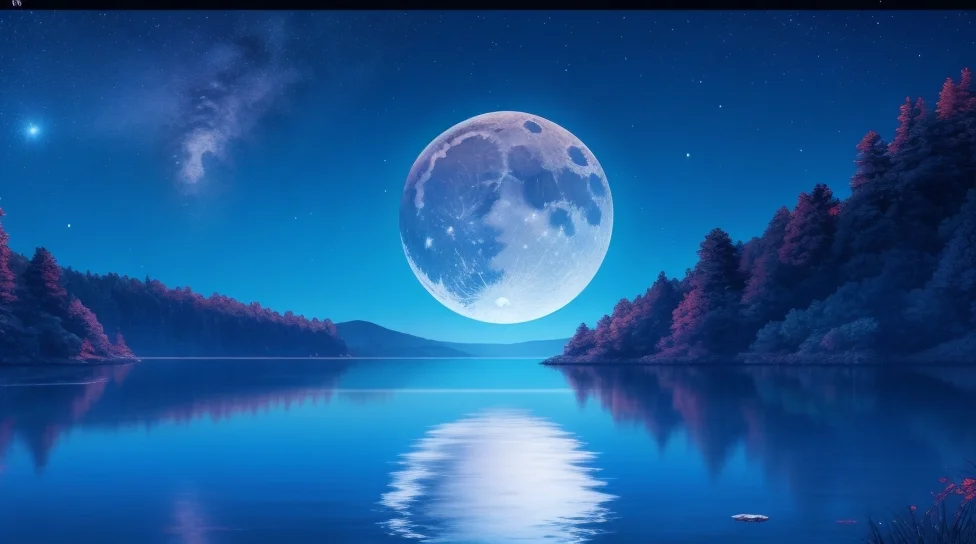
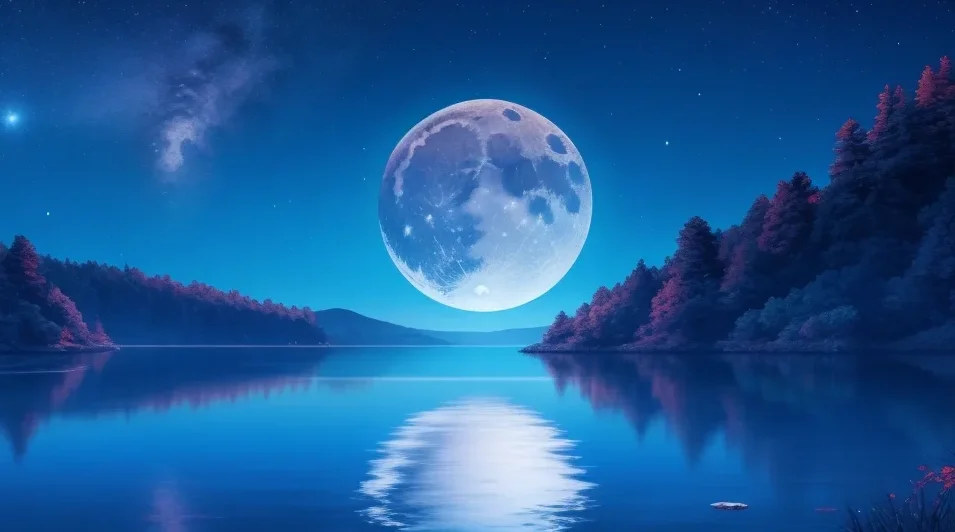
Fixed Types bug & Cropped image

diff --git a/src/assets/index.ts b/src/assets/index.ts
@@ -1,5 +1,6 @@
+import type { ImageMetadata } from "astro";
 type WeatherImages = {
-    [key: string]: string;
+    [key: string]: ImageMetadata;
 };
 
 // Weather Logo Images
